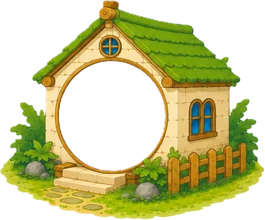
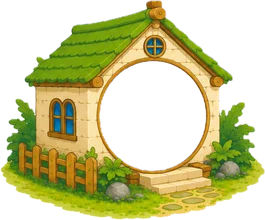
초록지붕 집 좌우 반전판 교체 (cx 42.3→57.4) + ③ 자리 0.5% 우측 (17.5→18)
Claude-Session: https://claude.ai/code/session_018maNuYqDfFyRSe9uKpZhPR

diff --git a/src/components/AdventureMap.jsx b/src/components/AdventureMap.jsx
@@ -24,7 +24,7 @@ import { useEffect, useRef, useState } from "react";
 const BUILDINGS = [
   { src: "assets/map-bld-junglehut.webp",   cx: 48.4, cy: 53.6, d: 39.1, k: 0.92 },
   { src: "assets/map-bld-tileroof.webp",    cx: 36.7, cy: 54.3, d: 37.5, k: 0.98 },
-  { src: "assets/map-bld-greenroof.webp",   cx: 42.3, cy: 52.5, d: 39.6, k: 0.99 },
+  { src: "assets/map-bld-greenroof.webp",   cx: 57.4, cy: 52.5, d: 39.6, k: 0.99 },  // 좌우 반전판 (구멍 우측)
   { src: "assets/map-bld-artisthouse.webp", cx: 64.3, cy: 52.7, d: 37.8, k: 1.0 },  // 좌우 반전판 (구멍 우측)
 ];
 
@@ -84,7 +84,7 @@ const MAP_SHORT = {
   spots: {
     1: [[80,50]],                                  // ① 우측 — 원숭이를 덮는 위치
     2: [[80,50],[40,36,"left",3]],                 // +② 좌상 (라벨 지붕 옆, 노란 건물)
-    3: [[80,50],[40,36,"left",3],[17.5,79,"bottom"]], // +③ 좌하 (0.5% 우측, 라벨 집 아래)
+    3: [[80,50],[40,36,"left",3],[18,79,"bottom"]],   // +③ 좌하 (0.5% 추가 우측, 라벨 집 아래)
   },
   pointAt: mkPointAt([
     [50,22],[54,25],[57,28],[55,32],[48,36],[44,40],[46,44],[52,48],[55,52],
